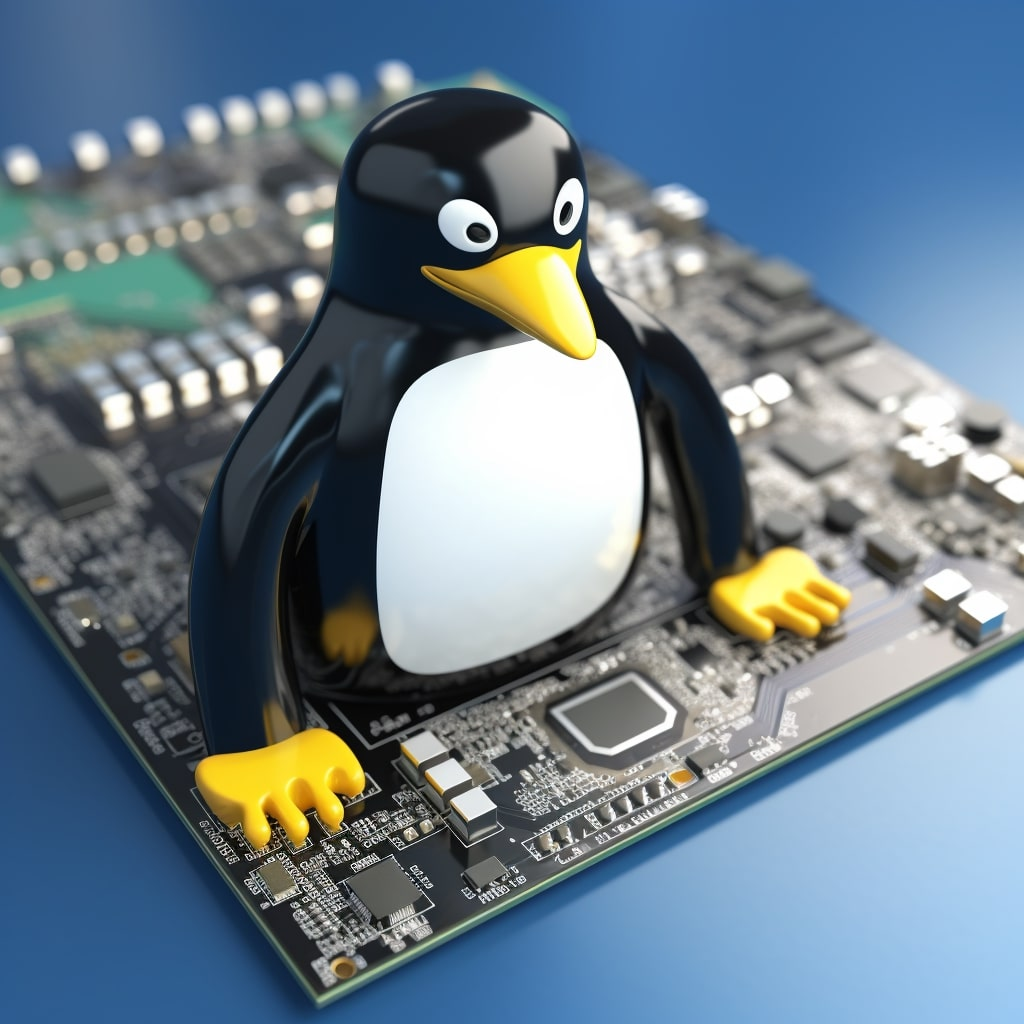
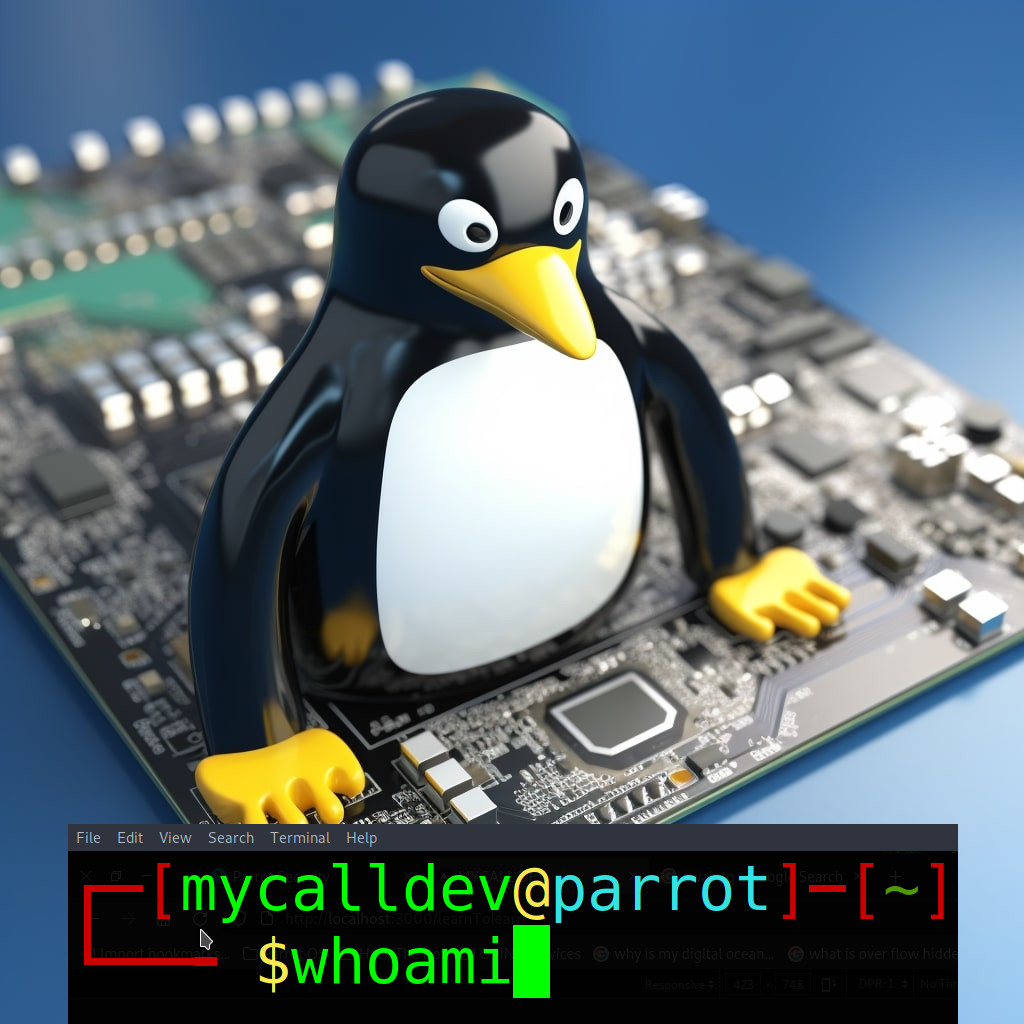
added WHOAMI page

Changed region(s): [[0.0625, 0.7812, 0.9375, 1.0]]

diff --git a/app/WHOAMI/page.jsx b/app/WHOAMI/page.jsx
@@ -1,12 +1,79 @@
 import Image from 'next/image';
+import Link from 'next/link';
 import styles from'./whoami.module.css';
 
 
 export default function WHOAMI() {
   return (
     <main>
-        <div className={styles.imagePerformanceContainer}>
-    
+        <div className={styles.imageHeroContainerMobile}>
+            <Image src={'/linux_parrot.jpg'}  
+            width={1024} 
+            height={1024} 
+            style={{
+                width: '100%',
+                height: 'auto',
+              }}
+            alt='image of linux parrot for website' 
+            quality={100} />
+        </div>
+        <div className={styles.imageHeroContainerDesktop}>
+            <Image src={'/linux_parrot_desktop.jpg'}  
+            width={2045} 
+            height={786} 
+            style={{
+                width: '100%',
+                height: 'auto',
+              }}
+            alt='image of linux parrot for website' 
+            quality={100} />
+        </div>
+
+        <div className={styles.titleMain}>WHOAMI</div>
+        <div className={styles.titleTag}>My Journey As a Computer Programmer: 7+ Years of Building Digital Worlds</div>
+      
+        <div className={styles.contentMain}>Welcome tech enthusiasts! I go by the alias Mycall Dev and 
+          I'm excited to share my journey as a computer programmer with you today. 
+          With over 7 years in the field, I've had the opportunity to delve into various 
+          facets of technology, gaining expertise in Networking, Cyber Security, Linux, 
+          and Full Stack Development.
+        </div>
+
+        <div className={styles.contentMain}>Welcome tech enthusiasts! I go by the alias <span>Mycall Dev</span> and I'm excited to share my journey as a computer programmer with you today. With over <span>7</span> years in the field, I've had the opportunity to delve into various facets of technology, gaining expertise in Networking, Cyber Security, Linux, and Full Stack Development.</div>
+      <div className={styles.titleSub}>Technologies</div>
+      <div>
+        <ul className={styles.ulContainer}>
+          <li className={styles.listItem}>Vanilla JavaScript</li>
+          <li className={styles.listItem}>React JS</li>
+          <li className={styles.listItem}>Next JS 13</li>
+          <li className={styles.listItem}>HTML & CSS</li>
+          <li className={styles.listItem}>Django/Python</li>
+          <li className={styles.listItem}>Git Version Control</li>
+          <li className={styles.listItem}>Server Congiguration/VPS</li>
+          <li className={styles.listItem}>DataBase Configuration/PostgreSQL</li>
+          <li className={styles.listItem}>Networking CCNA</li>
+          <li className={styles.listItem}>Linux Parrot Security OS</li>
+          <li className={styles.listItem}>AI - gptChat/Midjourney</li>
+          <li className={styles.listItem}>Music Technology</li>
+
+        </ul>
+      </div>
+
+      <div className={styles.titleSub}>Hobbies</div>
+      <ul className={styles.ulContainer}>
+          <li className={styles.listItem}>Sport</li>
+          <li className={styles.listItem}>Running</li>
+          <li className={styles.listItem}>Electrical Engineering</li>
+          <li className={styles.listItem}>Mathematics</li>
+          <li className={styles.listItem}>Physics/MetaPhysics</li>
+          <li className={styles.listItem}>Music</li>
+      </ul>
+
+      
+      <div className={styles.titleSub}>How I Work</div>
+      <div className={styles.contentMain}>I enjoy Learning and Teaching and thereby Learning.... With all my Projects, I initiate a <span>'Performance First Approach'.</span> </div>
+
+        <div className={styles.imagePerformanceContainer}> 
             <Image src={'/performance_whoami.jpg'}  
             width={1528} 
             height={891} 
@@ -17,6 +84,90 @@ export default function WHOAMI() {
             alt='image of performance rating for website' 
             quality={100} />
         </div>
+
+        <div className={styles.contentMain}>Alongside the Technologies (mentioned above), The greatest skill set I posses is the ability to fastrack my develpmont and the understanding of a construct or concept I am otherwise unfamiliar with....</div>
+      <div className={styles.contentMainBold}>For Example:</div>
+      <div className={styles.contentMain}> <span>A new programming launguage....</span></div> 
+      <div className={styles.contentMain}>I carry this out utilising the resources of today's modern world (internet, books, podcasts, AI) and a formula for learing I have developed (see link at the bottom of the page).</div>
+      <div className={styles.contentMain}>In other words, I can reach Point 'A' to Point 'B' expeditiously and with accuracy. I firmly believe this is owed to the nature of me being self taught (in part) and learning to be comfortable with the uncomfortable i.e being calculatd in the state of not knowing and having the experience over the years of understanding that all that is unknown is there to be discovered.</div>
+      
+      <div className={styles.titleSub}>My Journey</div>
+     
+      <div className={styles.contentMain}>I started off with a Windows 95 PC at the age of 11 (with the old skool dial up modems and AOL). By 12 years old I began studying HTML, a little CCS and a cracked version of Photoshop. After a year of messing around in chat rooms and learning how the internet worked I moved on to creating music via programmes such as: </div>
+      <ul className={styles.ulContainer}>
+          <li className={styles.listItem}>Fruity Loops</li>
+          <li className={styles.listItem}>Cubase</li>
+          <li className={styles.listItem}>Reason</li>
+          <li className={styles.listItem}>Logic</li>
+        </ul>
+        
+      <div className={styles.contentMain}>Created a few tracks and Mastered a few Dub-Plates by the age of 15. At the same time I was an MC (Microphone Controller/Rapper) on several pirate radio staions and performing at night clubs with an age restriction of over 18 whilst only being 16 years old.  </div>
+      <div className={styles.contentMain}>Prior to this - during my school era - I was center stage performing (rapping) with the Royal Philharmonic Orchestra in front of a full capacity audience at the Royal Festival Hall. I was well accustomed by now to perform in front of big crowds and went on to rap at several large venues.</div>
+      
+      <div className={styles.imageMicrophoneContainer}>
+            <Image src={'/microphone.jpg'}  
+            width={500} 
+            height={500} 
+            style={{
+                width: '100%',
+                height: 'auto',
+              }}
+            alt='image of a podcast microphone' 
+            quality={100} />
+      </div>
+      
+      <div className={styles.contentMain}>At the age of 16 I was selected for a Football Academy that required training 3 times a week and College twice a week. I choose Mucic Technology as my subject and carried on with musical performances at the college and several other theaters. During my College days a friend of mine and myself started to promote events at particualr nightclubs. This opened my eyes up to the Marketing world (before Social Media). Designing billboard posters, promotional flyers, tickets.... etc. The promotional events were a success, having carried out the first event at the age of 17 - and the event having an age policy of being over 18s only.... lol.... </div>
+      <div className={styles.contentMain}>For several reasons I decided to pick up a Trade and became a builder. Eventually, all my time was allocated to the building work and the Technological side of my mind took a back seat. I started a successful business in the building trade and worked up until my 30s. However, something just didn't feel right and my attention to detail and fastidious nature, along with that voice in your head, kept telling me to return to Technology.</div>
+      <div className={styles.contentMainBold}>So.... I made the transition! Closed the building business and put all my eggs into the computational basket. </div>
+      
+      
+      <div className={styles.imageDolphinContainer}>
+            <Image src={'/dolphin.png'}  
+            width={1024} 
+            height={1024} 
+            style={{
+                width: '100%',
+                height: 'auto',
+              }}
+            alt='image of a dolphin witha computer' 
+            quality={100} />
+      </div>
+
+      <div className={styles.contentMain}>The journey from here on out was not smooth to say the least. Although, through discipline, tenacity, and a great support network - in terms of colleagues and family - I have been privileged to follow my passion.    </div>
+      <div className={styles.titleSub}>Moving Forward</div>
+     
+      <div className={styles.contentMain}>I picked up from where I left off in my early adolescence; first re engaging with HTML and CSS. Thereafter, I studied python for a brief period and then made a progressive move to join a very unique Bootcamp: </div> 
+      <div className={styles.contentMain}> (Construstor Labs - https://constructorlabs.com/)</div> 
+      <div className={styles.imageConstructorLabsContainer}>
+        <Image src={'/constructor.png'} 
+          width={399} 
+          height={366}
+          style={{
+            width: '100%',
+            height: 'auto',
+          }} 
+          quality={100} 
+          alt={'constructor labs logo'} 
+        />
+      </div>
+      <div className={styles.contentMain}> I say unique because it was set out differently from all of the other mainstream Bootcamps. The sole intention of Constructor Labs and the head of Teaching (Dmitri Brabov) was to teach Javascript (vanilla), React, Redux, Node, PostgreSQL and Git/Github all in the space of 12 weeks. And this was a near insurmountable task. Although, hats off to Dmitri; he pulled it off, and his teaching style was with very little hand holding. </div>
+      <div className={styles.contentMain}>With the benefit of hindsight I can now see that Dmitri was no time waster and his teaching style was such that if you were meant to be a computer programmer then you needed to work things out for yourself.</div> 
+      <div className={styles.contentMainBold}>It was here that I learned a very valuable lesson….  ‘Google’ (the art of working things out for yourself).</div>
+      <div className={styles.contentMain}>Sleeves rolled up and ready for action, 18 students proceeded into the 12 week, full-time 10 hours a day Bootcamp.</div>  
+      <div className={styles.contentMainBold}>And I am forever owing to this opportunity. </div>
+      <div className={styles.contentMain}>After a couple months of assimilating all of what was previously digested, I attained the position of a backend engineer at ‘Fidel API’ (A fintech company focused on handling sensitive PCI 1 compliant data). Fidel API is a ‘B’ to ‘B’ startup, and I was afforded the opportunity to work freely on what was most productive for the company. This tested my iniative and instilled an unwavering desire to achieve from my own merit. It was known as 'ownership'.... coupled with a sigh of relief once the CEO and CTO realised a colleagues potential (lol....).</div>
+      <div className={styles.contentMain}> The backend Tech Stack was <span>AWS</span> and <span>Node JS</span>. I predominantly worked on building out the endpoints for the API and progressed and enjoyed the environment of collaborating with my technological counterparts.</div>
+      <div className={styles.contentMain}>It’s fair to say that I excelled at my position with Fidel API, although unbeknown to me ill health was waiting around the corner of my life's journey. My hand was forced and it was with a heavy heart that I had to resign. To this day I am in contact with the CEO (Dev Subrata) and he has achieved unbelievable success with the company. I am not surprised because he was very astute combined with great insight and business acumen.</div>
+      <div className={styles.contentMain}>Working at Fidel API is where everything fell into place  (programmatically speaking).... The penny had finally dropped. I witnessed and contributed to a variety of collaborative tasks, in and out of programming, which in turn built my confidence and skillset. It was now apparent to me that I could be classified as a computer programmer in the year of 2018/19. </div>
+      <div className={styles.contentMain}>From here on out I have been working full/part-time as a freelancer. I enjoy the granularity of programming and prefer to use as few dependencies as can be. I thrive at fixing bugs and dive deep into the language or framework I am using. I always want to know why and how something works and am never satisfied with copy and paste. In my experience, if there is a line of code that you do not fully understand, it is always that line that returns to bite you on the gluteus maximus. </div>
+      <div className={styles.contentMain}>In respect to all of the technologies I have learned along my journey, I focus a significant amount of time on learning how to learn efficiently. My past experiences have taught me the importance of learning efficiently; especially in today’s world of an ever exponential rate of change….</div>
+
+
+      <div className={styles.enticeTag}>Check out the formula for learning in my 'Learn Why and How To Learn' Article</div>
+      
+      <Link href={'/#'} className={styles.linkBTN}>
+            <div className={styles.guidesBTN}>Learn To Learn</div>
+      </Link>
     </main>
   )
 }

diff --git a/app/components/Navbar.js b/app/components/Navbar.js
@@ -57,11 +57,11 @@ export default function Navbar() {
                     <li className={styles.listItem}>Podcasts</li>
                   </div>
                 </Link>
-                <Link href={'/#'} className={styles.linkBTN} prefetch={true}>
+                {/* <Link href={'/#'} className={styles.linkBTN} prefetch={true}>
                   <div className={styles.listItemContainer} onClick={() => handleToggle()}>
                     <li className={styles.listItem}>Guides</li>
                   </div>
-                </Link>
+                </Link> */}
                 <Link href={'/blogs'} className={styles.linkBTN} prefetch={true}>
                   <div className={styles.listItemContainer} onClick={() => handleToggle()}>
                     <li className={styles.listItem}>Blogs</li>
@@ -72,11 +72,11 @@ export default function Navbar() {
                     <li className={styles.listItem}>WHOAMI</li>
                   </div>
                 </Link>
-                <Link href={'/#'} className={styles.linkBTN} prefetch={true}>
+                {/* <Link href={'/#'} className={styles.linkBTN} prefetch={true}>
                   <div className={styles.listItemContainer} onClick={() => handleToggle()}>
                     <li className={styles.listItem}>Support</li>
                   </div>
-                </Link>
+                </Link> */}
                 <Link href={'/#'} className={styles.linkBTN} prefetch={true}>
                   <div className={styles.listItemContainer} onClick={() => handleToggle()}>
                     <li className={styles.listItem}>Contact</li>
@@ -111,7 +111,7 @@ export default function Navbar() {
                       <li className={styles.listItem}>Blogs</li>
                     </div>
                   </Link>
-                  <Link href={'/'} className={styles.linkBTN}>
+                  <Link href={'/WHOAMI'} className={styles.linkBTN}>
                     <div className={styles.listItemContainer}>
                       <li className={styles.listItem}>WHOAMI</li>
                     </div>

diff --git a/app/WHOAMI/whoami.module.css b/app/WHOAMI/whoami.module.css
@@ -1,0 +1,107 @@
+.linkBTN {
+    text-decoration: none;
+    color: #fff;
+  }
+
+.contentMain {
+    margin: 30px;
+    font-size: 1.1rem;
+    line-height: 1.5;
+}
+
+.guidesBTN {
+    width: 50%;
+    padding: 15px 25px;
+    margin: 40px auto 40px auto;
+    font-size: 1.1rem;
+    font-weight: 700;
+    border-radius: 11px;
+    background: #56a4ec;
+    color: #fff;
+    text-align: center;
+    cursor: pointer;
+  }
+
+.imageHeroContainerDesktop {
+    display: none;
+}
+
+.titleMain {
+    text-align: center;
+    margin: 20px;
+    font-size: 2rem;
+    font-weight: 600;
+}
+
+.titleTag {
+    text-align: center;
+    margin: 10px 30px 0 30px; 
+    font-size: 1.5rem;
+    font-weight: 500;
+}
+
+.titleSub {
+    margin: 40px 30px 10px 30px;
+    color: #212121;
+    font-size: 1.3rem;
+    text-transform: uppercase;
+}
+
+.contentMainBold {
+    margin: 20px 30px;
+    line-height: 1.3;
+    font-size: 1.5rem;
+    font-weight: 700;
+    color: #575757;
+
+}
+
+.listItem {
+    margin: 10px;
+    font-size: 1.3rem;
+    color: #575757;
+}
+
+.enticeTag {
+    margin: 50px;
+    text-align: center;
+    font-weight: 700;
+    font-size: 1.3rem;
+    color: #575757;
+}
+
+@media(min-width: 768px) {
+    .imageHeroContainerMobile {
+        display: none;
+    }
+
+    .imageHeroContainerDesktop {
+        display: block;
+    }
+
+    .contentMain {
+        width: 70%;
+        margin: 30px auto 30px auto;
+        font-size: 1.5rem;
+    }
+
+    .imagePerformanceContainer {
+        width: 50%;
+        margin: auto;
+    }
+
+    .imageMicrophoneContainer {
+        width: 50%;
+        margin: auto;
+    }
+
+    .imageDolphinContainer {
+        width: 50%;
+        margin: auto;
+    }
+
+    .imageConstructorLabsContainer {
+        width: 50%;
+        margin: auto;
+    }
+}

diff --git a/app/page.js b/app/page.js
@@ -63,7 +63,7 @@ export default function Home() {
           />
         </div>
         
-        <h4 className={styles.weCoverSubTitle}>WE COVER A WIDE RANGE OF TOPICS IN SHORT SOUND BYTES</h4>
+        <h4 className={styles.weCoverSubTitle}>COVERING A WIDE RANGE OF TOPICS IN SHORT SOUND BYTES</h4>
 
         <div className={styles.mainContainer}>
           <div className={styles.imageThumbnailContainer}>
@@ -116,7 +116,7 @@ export default function Home() {
 
             <Link href={'/blogs'} className={styles.linkBTN} prefetch={true}>
               <div className={styles.guidesBTN}>
-              CHECK OUT OUR BLOGS
+              LATEST BLOGS
               </div>
             </Link>
         </div>

diff --git a/app/page.module.css b/app/page.module.css
@@ -1,20 +1,4 @@
-/* .iframeContainer {
-  position: relative;
-  padding-bottom: 56.25%;
-  overflow: hidden;
- 
-}
 
-.iframe {
-   overflow: hidden;
-   border: 0;
-   align-self: center;
-   position: absolute;
-   top: 0px;
-   left: 0px;
-   width: 100%;
-   height: 100%;
-} */
 
 .mainContainer {
   border: 1px solid #888888;
